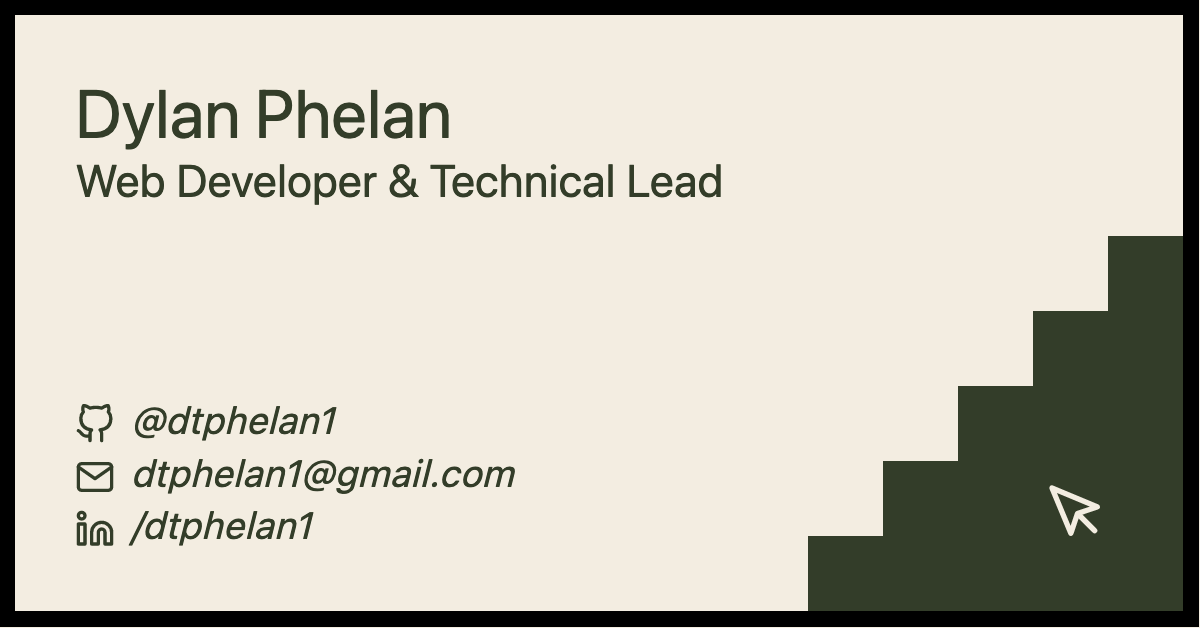
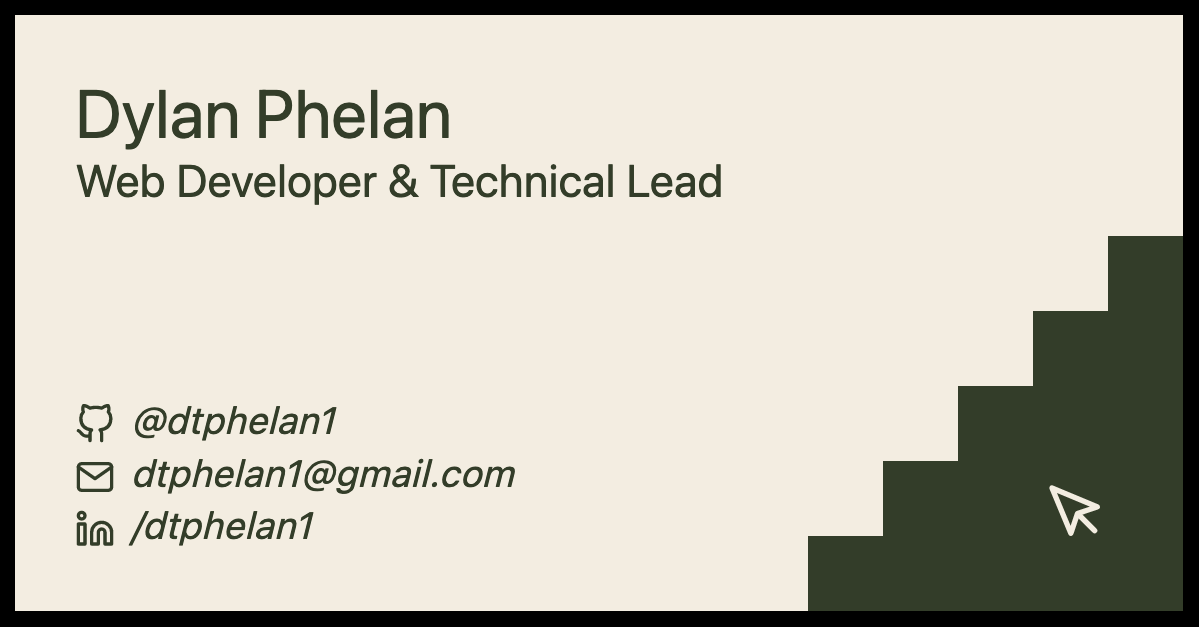
removed some serifs; fixed meta image crop

diff --git a/components/PageLayout.js b/components/PageLayout.js
@@ -77,7 +77,7 @@ export default function PageLayout({ children }) {
         <div className="basis-1/5 border-black border-b-8 sm:border-b-0 sm:border-r-8 bg-neutral-main px-4 pt-4 flex flex-col justify-between">
           <div id="top-nav" className="animate__animated animate__fadeInDown">
             <div className="mb-2 flex flex-wrap text-center sm:text-left justify-center sm:justify-start">
-              <h1 className="text-2xl font-serif basis-full">Dylan Phelan</h1>
+              <h1 className="text-2xl basis-full">Dylan Phelan</h1>
               <p className="text-lg basis-full font-sans">
                 Web Developer & Technical Lead
               </p>

diff --git a/pages/businessCard.js b/pages/businessCard.js
@@ -6,7 +6,7 @@ export default function BusinessCard() {
     <PageFadeWrapper>
       <div className="relative m-8 p-8 w-[600px] h-[314px] flex flex-col justify-between bg-neutral-main text-primary border-8 border-black text-xl">
         <header className="mb-4">
-          <h1 className="text-4xl font-serif">Dylan Phelan</h1>
+          <h1 className="text-4xl">Dylan Phelan</h1>
           <h2 className="text-2xl">Web Developer & Technical Lead</h2>
         </header>
         <address className="mb-">
